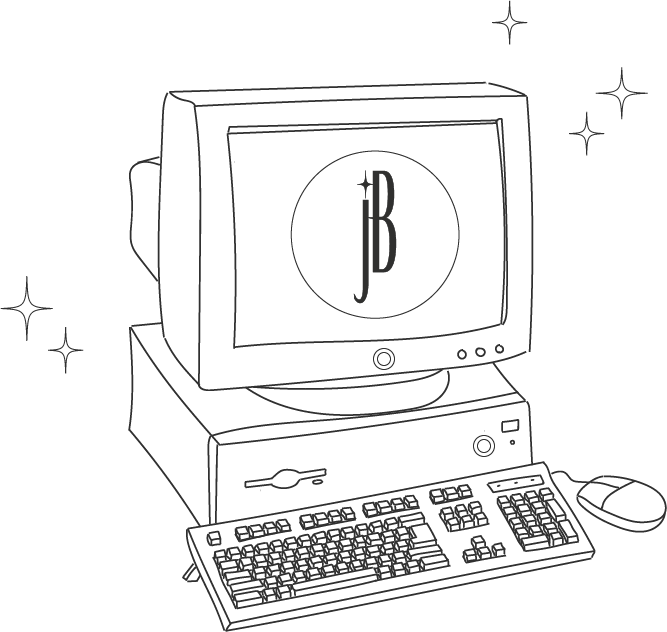
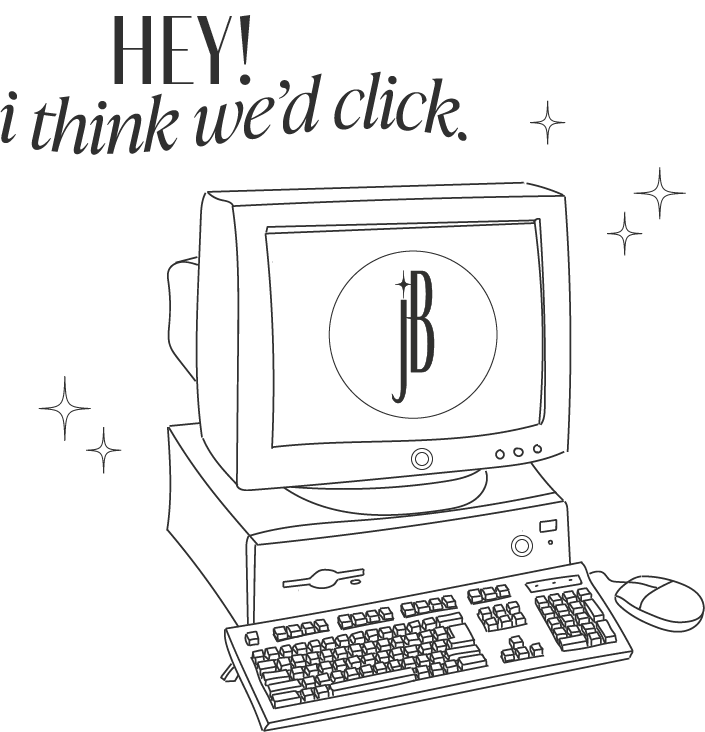
Updating homepage image and server.js

diff --git a/src/Components/Admin.js b/src/Components/Admin.js
@@ -48,7 +48,6 @@ const Admin = () => {
   const [projectDescription, setProjectDescription] = useState('');
   const [projectImage, setProjectImage] = useState(null);
   const [value, setValue] = React.useState(0);
-  const id = 1;
   
   
 
@@ -97,7 +96,7 @@ const Admin = () => {
       headers: {
         'Content-Type': 'application/json',
       },
-      body: JSON.stringify({ id, projectTitle, projectCategory, projectDescription, projectImage }),
+      body: JSON.stringify({ projectTitle, projectCategory, projectDescription, projectImage }),
     })
     .then(res => res.json())
     .then(project => console.log(project));

diff --git a/src/Components/Home.js b/src/Components/Home.js
@@ -7,18 +7,13 @@ function HomePage() {
     <Element id="homepage">
       <div align="center" className="allContainer">
         <div
-          align="center"
           style={{
             backgroundImage: `url(${homepage})`,
-            backgroundSize: 'cover',
-            height: 600,
-            width: 650
+            // backgroundSize: 'cover',
+            height: 740,
+            width: 705
           }}
         >
-          <div className="headerText">
-            <p>hey!</p>
-            <p>i think we'd click.</p>
-          </div>
         </div>
       </div>
     </Element>

diff --git a/server.js b/server.js
@@ -15,7 +15,7 @@ app.post('/projects/submit', async (req, res) => {
   const { projectTitle, projectCategory, projectDescription, projectImage } = req.body;
 
   // Insert the project into the database
-  const project = await insertProject( projectTitle, projectCategory, projectDescription, projectImage);
+  const project = await insertProject(projectTitle, projectCategory, projectDescription, projectImage);
 
   // Send the inserted project as the response
   res.json(project);
